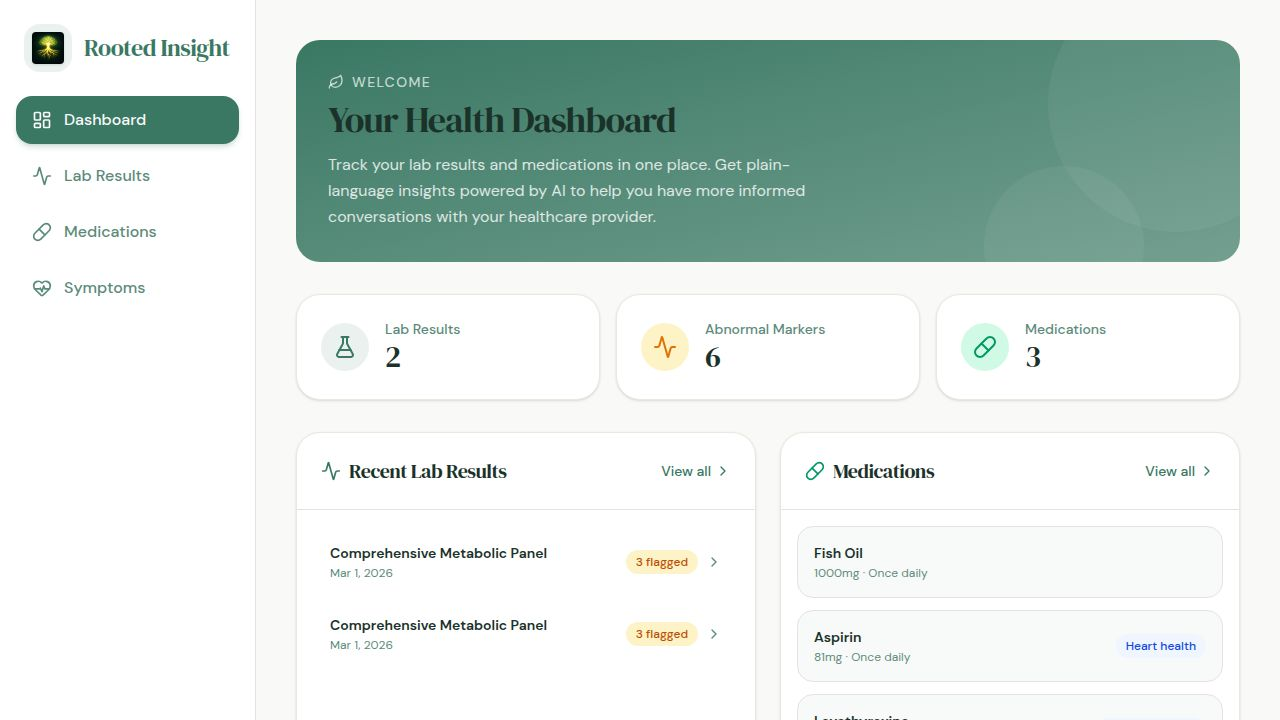
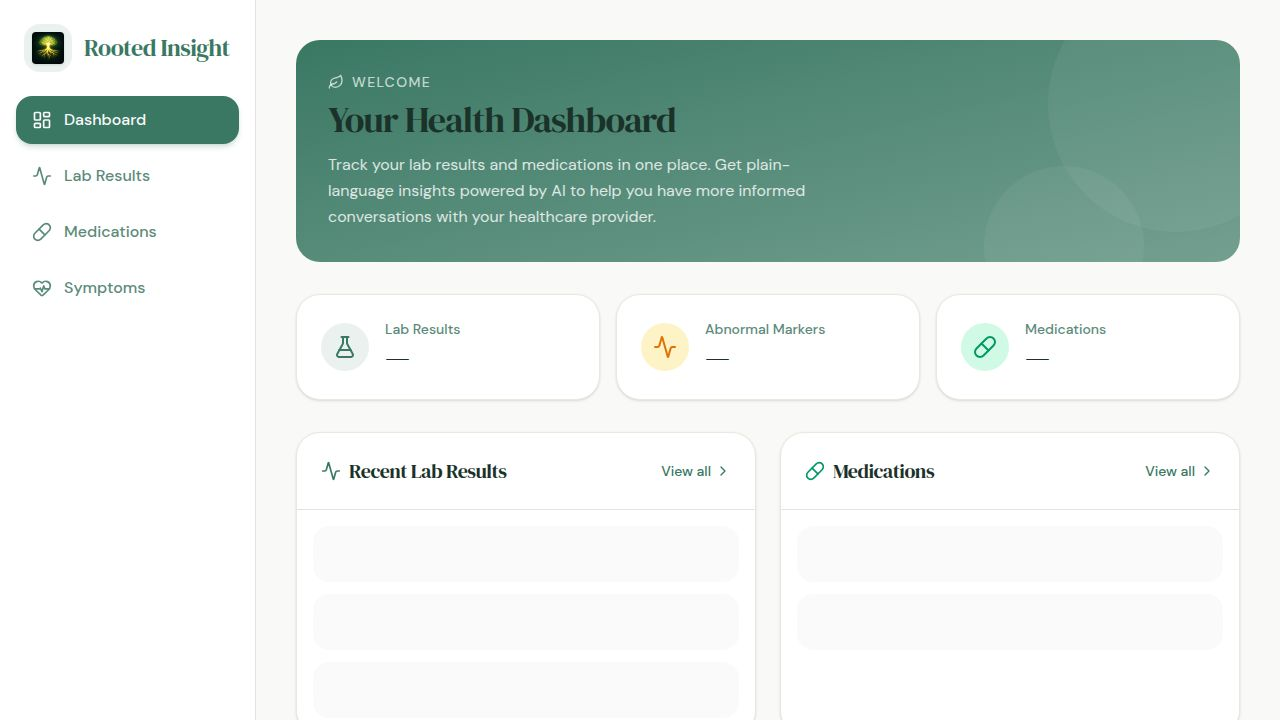
Add print functionality for medication lists and wellness plans
Adds a print button to the MedicationsList component to generate a printable version of the user's medication list, and to the WellnessPlan component to print the generated wellness plan and questions for the doctor.

Replit-Commit-Author: Agent
Replit-Commit-Session-Id: 56708a90-7cf3-4525-95ec-4b758532b0cf
Replit-Commit-Checkpoint-Type: full_checkpoint
Replit-Commit-Event-Id: 1ae00a57-3875-47ac-bcf6-40a27fbbe47f
Replit-Commit-Screenshot-Url: https://storage.googleapis.com/screenshot-production-us-central1/69936858-0336-4823-b864-1866a27765bd/56708a90-7cf3-4525-95ec-4b758532b0cf/x6yWYBW
Replit-Helium-Checkpoint-Created: true

diff --git a/artifacts/rooted-insight/src/pages/lab-results/WellnessPlan.tsx b/artifacts/rooted-insight/src/pages/lab-results/WellnessPlan.tsx
@@ -7,6 +7,7 @@ import {
   Check,
   Download,
   ChevronDown,
+  Printer,
   Pill,
   Salad,
   Dumbbell,
@@ -262,6 +263,119 @@ function printHtml(html: string) {
   setTimeout(() => win.print(), 300);
 }
 
+function buildPrintWellnessPlanHtml(plan: WellnessPlanData): string {
+  const priorityColor = { high: "#dc2626", medium: "#d97706", low: "#16a34a" };
+  const priorityLabel = { high: "High Priority", medium: "Medium Priority", low: "Monitoring" };
+
+  const stepsHtml = [...plan.steps]
+    .sort((a, b) => ({ high: 0, medium: 1, low: 2 }[a.priority] - ({ high: 0, medium: 1, low: 2 }[b.priority])))
+    .map((step) => `
+      <div style="margin-bottom:18px;padding:14px 18px;border-left:4px solid ${priorityColor[step.priority]};background:#fafafa;border-radius:0 10px 10px 0;page-break-inside:avoid;">
+        <div style="display:flex;align-items:center;gap:8px;margin-bottom:6px;">
+          <span style="background:${priorityColor[step.priority]}22;color:${priorityColor[step.priority]};padding:2px 10px;border-radius:20px;font-size:11px;font-weight:700;text-transform:uppercase;">${priorityLabel[step.priority]}</span>
+          <span style="font-size:11px;color:#6b7280;text-transform:uppercase;letter-spacing:0.5px;">${step.category}</span>
+        </div>
+        <p style="margin:2px 0 4px;font-weight:700;font-size:15px;color:#111;">${step.marker}</p>
+        <p style="margin:2px 0;font-size:12px;color:#6b7280;font-style:italic;">${step.finding}</p>
+        <p style="margin:6px 0 3px;font-size:14px;color:#111;"><strong>Action:</strong> ${step.action}</p>
+        ${step.actionDetail ? `<p style="margin:2px 0;font-size:12px;color:#4b5563;">${step.actionDetail}</p>` : ""}
+        <p style="margin:6px 0 0;font-size:12px;color:#374151;"><strong>Start:</strong> ${step.timeline} &nbsp;|&nbsp; <strong>Retest in:</strong> ${step.retestIn}</p>
+      </div>`)
+    .join("");
+
+  const questionsHtml = (plan.questionsForDoctor ?? [])
+    .map((q, i) => `
+      <div style="margin-bottom:14px;page-break-inside:avoid;">
+        <div style="padding:10px 14px;background:#eff6ff;border-radius:8px;font-size:13px;color:#1e40af;">
+          <strong>${i + 1}.</strong> ${q}
+        </div>
+        <div style="margin-top:6px;border-bottom:1px solid #d1d5db;height:20px;"></div>
+        <div style="border-bottom:1px solid #d1d5db;height:20px;"></div>
+      </div>`)
+    .join("");
+
+  return `<!DOCTYPE html>
+<html>
+<head>
+  <meta charset="utf-8"/>
+  <title>Wellness Action Plan — ${plan.testName}</title>
+  <style>
+    @media print { body { -webkit-print-color-adjust: exact; } @page { margin: 0.75in; } }
+    body { font-family: Georgia, serif; color: #111; margin: 0; background: #fff; }
+    .page { max-width: 760px; margin: 0 auto; padding: 48px 40px; }
+    h1 { font-size: 26px; color: #1a3a2a; border-bottom: 2px solid #1a3a2a; padding-bottom: 10px; margin-bottom: 4px; }
+    h2 { font-size: 17px; color: #1a3a2a; margin-top: 28px; margin-bottom: 12px; border-bottom: 1px solid #e5e7eb; padding-bottom: 6px; }
+    .meta { color: #6b7280; font-size: 13px; margin-bottom: 24px; }
+    .summary { background: #f0fdf4; border: 1px solid #86efac; border-radius: 8px; padding: 14px 16px; font-size: 14px; line-height: 1.7; margin-bottom: 8px; }
+    .disclaimer { background: #fef3c7; border: 1px solid #fcd34d; border-radius: 8px; padding: 12px 16px; font-size: 12px; color: #92400e; margin-top: 28px; }
+    .footer { margin-top: 24px; text-align: center; color: #9ca3af; font-size: 11px; border-top: 1px solid #e5e7eb; padding-top: 12px; }
+  </style>
+</head>
+<body>
+<div class="page">
+  <h1>Wellness Action Plan</h1>
+  <p class="meta"><strong>Test:</strong> ${plan.testName} &nbsp;|&nbsp; <strong>Date:</strong> ${plan.testDate} &nbsp;|&nbsp; <strong>Generated:</strong> ${plan.generatedAt}</p>
+
+  <h2>Overview</h2>
+  <div class="summary">${plan.summary}</div>
+
+  <h2>Action Steps</h2>
+  ${stepsHtml}
+
+  ${plan.questionsForDoctor?.length ? `
+  <h2>Questions to Ask Your Doctor</h2>
+  ${questionsHtml}` : ""}
+
+  <div class="disclaimer"><strong>⚠ Medical Disclaimer:</strong> This wellness plan is for educational and informational purposes only. It does not constitute medical advice, diagnosis, or treatment. Always consult a qualified healthcare provider before making changes to your health regimen, diet, supplements, or medications. Do not disregard professional medical advice or delay seeking it because of information presented here. In a medical emergency, call 911.</div>
+  <div class="footer">Generated by Rooted Insight · For personal use only · Not a substitute for professional medical advice</div>
+</div>
+</body>
+</html>`;
+}
+
+function buildPrintQuestionsHtml(plan: WellnessPlanData): string {
+  const questionsHtml = (plan.questionsForDoctor ?? [])
+    .map((q, i) => `
+      <div style="margin-bottom:22px;page-break-inside:avoid;">
+        <div style="padding:12px 16px;background:#eff6ff;border:1px solid #bfdbfe;border-radius:8px;font-size:14px;color:#1e3a5f;line-height:1.6;">
+          <strong style="color:#1d4ed8;">${i + 1}.</strong> ${q}
+        </div>
+        <p style="font-size:11px;color:#9ca3af;margin:8px 0 2px;">Doctor's response / notes:</p>
+        <div style="border-bottom:1px solid #d1d5db;height:22px;margin-bottom:4px;"></div>
+        <div style="border-bottom:1px solid #d1d5db;height:22px;margin-bottom:4px;"></div>
+        <div style="border-bottom:1px solid #d1d5db;height:22px;"></div>
+      </div>`)
+    .join("");
+
+  return `<!DOCTYPE html>
+<html>
+<head>
+  <meta charset="utf-8"/>
+  <title>Doctor Questions — ${plan.testName}</title>
+  <style>
+    @media print { body { -webkit-print-color-adjust: exact; } @page { margin: 0.75in; } }
+    body { font-family: Georgia, serif; color: #111; margin: 0; background: #fff; }
+    .page { max-width: 700px; margin: 0 auto; padding: 48px 40px; }
+    h1 { font-size: 26px; color: #1a3a2a; border-bottom: 2px solid #1a3a2a; padding-bottom: 10px; margin-bottom: 4px; }
+    .meta { color: #6b7280; font-size: 13px; margin-bottom: 28px; }
+    .intro { background: #f0fdf4; border: 1px solid #86efac; border-radius: 8px; padding: 12px 16px; font-size: 13px; line-height: 1.6; color: #374151; margin-bottom: 24px; }
+    .disclaimer { background: #fef3c7; border: 1px solid #fcd34d; border-radius: 8px; padding: 10px 14px; font-size: 11px; color: #92400e; margin-top: 28px; }
+    .footer { margin-top: 20px; text-align: center; color: #9ca3af; font-size: 10px; border-top: 1px solid #e5e7eb; padding-top: 12px; }
+  </style>
+</head>
+<body>
+<div class="page">
+  <h1>Questions for My Doctor</h1>
+  <p class="meta"><strong>Lab Test:</strong> ${plan.testName} &nbsp;|&nbsp; <strong>Date:</strong> ${plan.testDate} &nbsp;|&nbsp; <strong>Generated:</strong> ${plan.generatedAt}</p>
+  <div class="intro">Bring this sheet to your appointment. Each question references your actual lab values. Use the lines below each question to record your doctor's response.</div>
+  ${questionsHtml}
+  <div class="disclaimer"><strong>⚠ Note:</strong> These questions were generated by an AI health education tool and are for discussion purposes only. They do not constitute medical advice. Your physician's guidance supersedes any AI-generated content.</div>
+  <div class="footer">Generated by Rooted Insight · Bring this to your appointment · For discussion with your healthcare provider</div>
+</div>
+</body>
+</html>`;
+}
+
 // ─── Main Component ───────────────────────────────────────────────────────────
 
 interface Props {
@@ -354,14 +468,24 @@ export default function WellnessPlan({ labResultId, testName }: Props) {
           <ClipboardList className="w-6 h-6 text-primary" /> Wellness Plan
         </h2>
         {plan && (
-          <div className="flex items-center gap-2">
+          <div className="flex items-center gap-2 flex-wrap">
             {/* Copy */}
             <Button variant="outline" size="sm" onClick={handleCopy} className="gap-1.5">
               {copied ? <Check className="w-4 h-4 text-green-600" /> : <Copy className="w-4 h-4" />}
               {copied ? "Copied!" : "Copy"}
             </Button>
 
-            {/* Export dropdown */}
+            {/* Print Plan — prominent, always visible */}
+            <Button
+              variant="outline"
+              size="sm"
+              onClick={() => printHtml(buildPrintWellnessPlanHtml(plan))}
+              className="gap-1.5 text-primary border-primary/40 hover:bg-primary/5"
+            >
+              <Printer className="w-4 h-4" /> Print Plan
+            </Button>
+
+            {/* Export dropdown — text file downloads */}
             <div className="relative" ref={exportRef}>
               <Button
                 variant="outline"
@@ -378,24 +502,22 @@ export default function WellnessPlan({ labResultId, testName }: Props) {
                     className="w-full text-left px-4 py-3 text-sm hover:bg-muted/50 transition-colors border-b border-border"
                     onClick={() => handleExport("simple")}
                   >
-                    <p className="font-semibold">Simple Version</p>
-                    <p className="text-xs text-muted-foreground">Clean text with action steps</p>
+                    <p className="font-semibold">Simple Version (.txt)</p>
+                    <p className="text-xs text-muted-foreground">Download as plain text file</p>
                   </button>
                   <button
                     className="w-full text-left px-4 py-3 text-sm hover:bg-muted/50 transition-colors border-b border-border"
                     onClick={() => handleExport("checklist")}
                   >
-                    <p className="font-semibold">Checklist Version</p>
-                    <p className="text-xs text-muted-foreground">Color-coded priority checklist</p>
+                    <p className="font-semibold">Checklist Version (.txt)</p>
+                    <p className="text-xs text-muted-foreground">Color-coded priority checklist file</p>
                   </button>
                   <button
                     className="w-full text-left px-4 py-3 text-sm hover:bg-muted/50 transition-colors"
                     onClick={() => handleExport("doctor")}
                   >
-                    <p className="font-semibold text-primary">Doctor's Report (PDF)</p>
-                    <p className="text-xs text-muted-foreground">
-                      Lab values, explanations + questions to ask
-                    </p>
+                    <p className="font-semibold text-primary">Full Doctor's Report</p>
+                    <p className="text-xs text-muted-foreground">Lab values, steps + questions (print)</p>
                   </button>
                 </div>
               )}
@@ -560,9 +682,18 @@ export default function WellnessPlan({ labResultId, testName }: Props) {
             <FadeIn>
               <Card className="border-blue-100 bg-blue-50/50 shadow-none">
                 <CardContent className="p-6">
-                  <h3 className="font-display text-lg mb-4 flex items-center gap-2 text-blue-900">
-                    <Stethoscope className="w-5 h-5 text-blue-600" /> Questions to Ask Your Doctor
-                  </h3>
+                  <div className="flex items-center justify-between gap-3 mb-4 flex-wrap">
+                    <h3 className="font-display text-lg flex items-center gap-2 text-blue-900">
+                      <Stethoscope className="w-5 h-5 text-blue-600" /> Questions to Ask Your Doctor
+                    </h3>
+                    <button
+                      onClick={() => printHtml(buildPrintQuestionsHtml(plan))}
+                      className="flex items-center gap-1.5 text-xs font-semibold text-blue-700 bg-blue-100 hover:bg-blue-200 border border-blue-200 px-3 py-1.5 rounded-lg transition-colors"
+                    >
+                      <Printer className="w-3.5 h-3.5" /> Print Questions
+                    </button>
+                  </div>
+                  <p className="text-xs text-blue-600/70 mb-4 italic">The print version includes blank lines for recording your doctor's responses at the appointment.</p>
                   <ul className="space-y-3">
                     {plan.questionsForDoctor.map((q, i) => (
                       <li key={i} className="flex items-start gap-3 text-sm text-blue-800">

diff --git a/artifacts/rooted-insight/src/pages/medications/MedicationsList.tsx b/artifacts/rooted-insight/src/pages/medications/MedicationsList.tsx
@@ -2,9 +2,75 @@ import React, { useState, useRef, useCallback } from "react";
 import { useGetMedications, useCreateMedication, useUpdateMedication, useDeleteMedication, getGetMedicationsQueryKey } from "@workspace/api-client-react";
 import { useQueryClient } from "@tanstack/react-query";
 import { FadeIn, StaggerContainer, StaggerItem, Card, CardContent, Button, Input, Label, Badge } from "@/components/shared/UI";
-import { Pill, Plus, Calendar, User, Trash2, Edit3, X, Camera, Loader2, CheckCircle, AlertCircle } from "lucide-react";
+import { Pill, Plus, Calendar, User, Trash2, Edit3, X, Camera, Loader2, CheckCircle, AlertCircle, Printer } from "lucide-react";
 import { formatDate } from "@/lib/utils";
 import InteractionChecker from "./InteractionChecker";
+
+function printMedicationList(medications: any[]) {
+  const today = new Date().toLocaleDateString("en-US", { year: "numeric", month: "long", day: "numeric" });
+
+  const medsHtml = medications.map((med) => `
+    <div class="med">
+      <div class="med-name">${med.name}</div>
+      <div class="badges">
+        ${med.dosage ? `<span class="badge">${med.dosage}</span>` : ""}
+        ${med.frequency ? `<span class="badge badge-green">${med.frequency}</span>` : ""}
+      </div>
+      <div class="details">
+        ${med.prescribedFor ? `<div class="detail-row"><span class="detail-label">Condition:</span> ${med.prescribedFor}</div>` : ""}
+        ${med.prescribedBy ? `<div class="detail-row"><span class="detail-label">Prescribed by:</span> ${med.prescribedBy}</div>` : ""}
+        ${med.startDate ? `<div class="detail-row"><span class="detail-label">Started:</span> ${med.startDate}</div>` : ""}
+        ${med.notes ? `<div class="detail-row notes"><span class="detail-label">Notes:</span> ${med.notes}</div>` : ""}
+      </div>
+    </div>`).join("");
+
+  const html = `<!DOCTYPE html>
+<html>
+<head>
+  <meta charset="utf-8"/>
+  <title>My Medication List</title>
+  <style>
+    @media print { body { -webkit-print-color-adjust: exact; } @page { margin: 0.75in; } }
+    body { font-family: Georgia, serif; color: #111; margin: 0; background: #fff; }
+    .page { max-width: 720px; margin: 0 auto; padding: 48px 40px; }
+    h1 { font-size: 26px; color: #1a3a2a; border-bottom: 2px solid #1a3a2a; padding-bottom: 10px; margin-bottom: 4px; }
+    .subtitle { color: #6b7280; font-size: 13px; margin-bottom: 28px; }
+    .med { border: 1px solid #e5e7eb; border-radius: 8px; padding: 16px 20px; margin-bottom: 14px; page-break-inside: avoid; }
+    .med-name { font-size: 18px; font-weight: 700; color: #1a3a2a; margin-bottom: 6px; }
+    .badges { display: flex; gap: 8px; flex-wrap: wrap; margin-bottom: 10px; }
+    .badge { background: #f3f4f6; color: #374151; font-size: 12px; font-weight: 600; padding: 3px 12px; border-radius: 20px; border: 1px solid #e5e7eb; }
+    .badge-green { background: #f0fdf4; color: #166534; border-color: #bbf7d0; }
+    .details { display: grid; grid-template-columns: 1fr 1fr; gap: 5px 16px; }
+    .detail-row { font-size: 13px; color: #374151; }
+    .detail-row.notes { grid-column: span 2; }
+    .detail-label { font-weight: 600; color: #6b7280; }
+    .emergency { background: #fef2f2; border: 1px solid #fca5a5; border-radius: 8px; padding: 12px 16px; font-size: 13px; color: #991b1b; margin-top: 24px; font-weight: 600; }
+    .disclaimer { background: #fef3c7; border: 1px solid #fcd34d; border-radius: 8px; padding: 12px 16px; font-size: 12px; color: #92400e; margin-top: 12px; }
+    .footer { margin-top: 24px; text-align: center; color: #9ca3af; font-size: 11px; border-top: 1px solid #e5e7eb; padding-top: 12px; }
+    .count { display: inline-block; background: #f0fdf4; color: #166534; border: 1px solid #bbf7d0; padding: 2px 10px; border-radius: 20px; font-size: 12px; font-weight: 600; margin-left: 8px; }
+  </style>
+</head>
+<body>
+<div class="page">
+  <h1>My Medication List <span class="count">${medications.length} medication${medications.length !== 1 ? "s" : ""}</span></h1>
+  <p class="subtitle">Printed on ${today} · For use as a personal reference at medical appointments</p>
+
+  ${medsHtml}
+
+  <div class="emergency">⚠ In case of emergency or accidental overdose, call 911 or Poison Control: 1-[phone redacted]</div>
+  <div class="disclaimer"><strong>Medical Disclaimer:</strong> This medication list is for personal reference and informational purposes only. Always consult your prescribing physician or pharmacist before making any changes to your medications, dosages, or schedule. Never stop or change a medication without professional guidance.</div>
+  <div class="footer">Generated by Rooted Insight · For personal use only · Not a substitute for professional medical advice</div>
+</div>
+</body>
+</html>`;
+
+  const win = window.open("", "_blank");
+  if (!win) return;
+  win.document.write(html);
+  win.document.close();
+  win.focus();
+  setTimeout(() => win.print(), 300);
+}
 
 const Modal = ({ isOpen, onClose, title, children }: { isOpen: boolean; onClose: () => void; title: string; children: React.ReactNode }) => {
   if (!isOpen) return null;
@@ -140,9 +206,20 @@ export default function MedicationsList() {
           <h1 className="text-3xl md:text-4xl font-display text-foreground">Medications</h1>
           <p className="text-muted-foreground mt-2">Track your current prescriptions and supplements.</p>
         </div>
-        <Button onClick={openAdd} className="shadow-lg shadow-primary/20">
-          <Plus className="w-5 h-5 mr-2" /> Add Medication
-        </Button>
+        <div className="flex items-center gap-3 flex-wrap">
+          {medications && medications.length > 0 && (
+            <Button
+              variant="outline"
+              onClick={() => printMedicationList(medications)}
+              className="gap-2 text-primary border-primary/40 hover:bg-primary/5"
+            >
+              <Printer className="w-4 h-4" /> Print List
+            </Button>
+          )}
+          <Button onClick={openAdd} className="shadow-lg shadow-primary/20">
+            <Plus className="w-5 h-5 mr-2" /> Add Medication
+          </Button>
+        </div>
       </FadeIn>
 
       {isLoading ? (